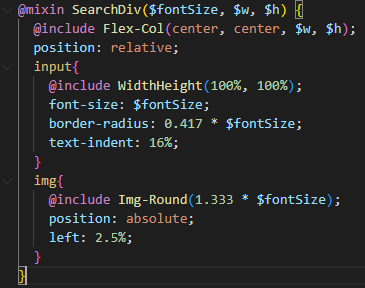
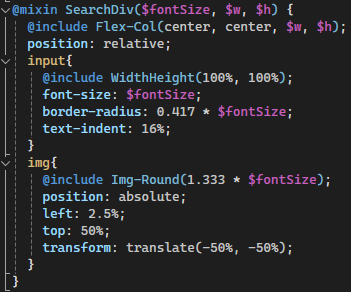
4/2/24 searchDiv changed slightly. table pagination styles added

Changed region(s): [[0.0, 0.0, 0.9972, 1.0], [0.7123, 0.25, 0.8262, 0.3438], [0.7123, 0.8125, 0.8262, 0.875]]

diff --git a/dist/docs.css b/dist/docs.css
@@ -1,1 +1,1 @@
-.search-wrap{display:flex;justify-content:center;align-items:center;width:100%;height:10vh}.search-wrap .search-div{display:flex;flex-direction:column;align-items:center;justify-content:center;width:30%;height:5vh;position:relative}.search-wrap .search-div input{width:100%;height:100%;font-size:1.5rem;border-radius:.6255rem;text-indent:16%}.search-wrap .search-div img{height:1.9995rem;width:1.9995rem;min-height:1.9995rem;min-width:1.9995rem;border-radius:50%;position:absolute;left:2.5%}.book-container{display:flex;flex-direction:column;align-items:center;justify-content:center;width:85%;height:initial;margin:5vh auto}.book-container .book{display:flex;flex-direction:column;align-items:flex-start;justify-content:center;width:90%;height:10vh;margin:2vh 0vw;background-image:linear-gradient(to bottom right, #2B5884, #003870);border-radius:1rem;border:#000 solid .5px;cursor:pointer;position:relative;transition:filter .3s,width .3s,height .3s}.book-container .book:hover{width:91%;height:10.3vh;filter:brightness(115%)}.book-container .book h4{margin-left:10%}.book-container .book p{margin:0% 5% 0% 15%}.book-container .book a{width:100%;height:100%;position:absolute;top:0%;left:0%}/*# sourceMappingURL=docs.css.map */
+.search-wrap{display:flex;justify-content:center;align-items:center;width:100%;height:10vh}.search-wrap .search-div{display:flex;flex-direction:column;align-items:center;justify-content:center;width:30%;height:5vh;position:relative}.search-wrap .search-div input{width:100%;height:100%;font-size:1.5rem;border-radius:.6255rem;text-indent:16%}.search-wrap .search-div img{height:1.9995rem;width:1.9995rem;min-height:1.9995rem;min-width:1.9995rem;border-radius:50%;position:absolute;left:2.5%;top:50%;transform:translate(-50%, -50%)}.book-container{display:flex;flex-direction:column;align-items:center;justify-content:center;width:85%;height:initial;margin:5vh auto}.book-container .book{display:flex;flex-direction:column;align-items:flex-start;justify-content:center;width:90%;height:10vh;margin:2vh 0vw;background-image:linear-gradient(to bottom right, #2B5884, #003870);border-radius:1rem;border:#000 solid .5px;cursor:pointer;position:relative;transition:filter .3s,width .3s,height .3s}.book-container .book:hover{width:91%;height:10.3vh;filter:brightness(115%)}.book-container .book h4{margin-left:10%}.book-container .book p{margin:0% 5% 0% 15%}.book-container .book a{width:100%;height:100%;position:absolute;top:0%;left:0%}/*# sourceMappingURL=docs.css.map */

diff --git a/styles/_styleDashMix.scss b/styles/_styleDashMix.scss
@@ -215,6 +215,8 @@ $cDashboard2: #2d80d2;
     @include Img-Round(1.333 * $fontSize);
     position: absolute;
     left: 2.5%;
+    top: 50%;
+    transform: translate(-50%, -50%);
   }
 }
 @mixin PasswordShowToggleWrap(){
@@ -304,6 +306,37 @@ $cDashboard2: #2d80d2;
     td{
       padding: 1rem;
       text-align: center;
+    }
+    .table-pagination-panel {
+      .table-pagination-wrap {
+        @include Flex-Row(center, center, 100%, initial);
+        .results-per-page-wrap {
+          @include Flex-Row(flex-start, center, 100%, initial);
+          margin-left: 5vw;
+        }
+        .page-wrap {
+          @include Flex-Row(center, center, 100%, initial);
+        }
+        .showing-results-wrap {
+          @include Flex-Row(flex-end, center, 100%, initial);
+          margin-right: 5vw;
+        }
+      }
+      #firstPageBtn, #prevPageBtn {
+        transform: rotate(180deg);
+      }
+      .input-validation-wrap {
+        input {
+          width: 3vw;
+          margin: 0vh 1vw;
+          text-align: center;
+          text-indent: 0%;
+        }
+        span {
+          top: -150%;
+          border: 2px solid $cWarning;
+        }
+      }
     }
   }
 }
